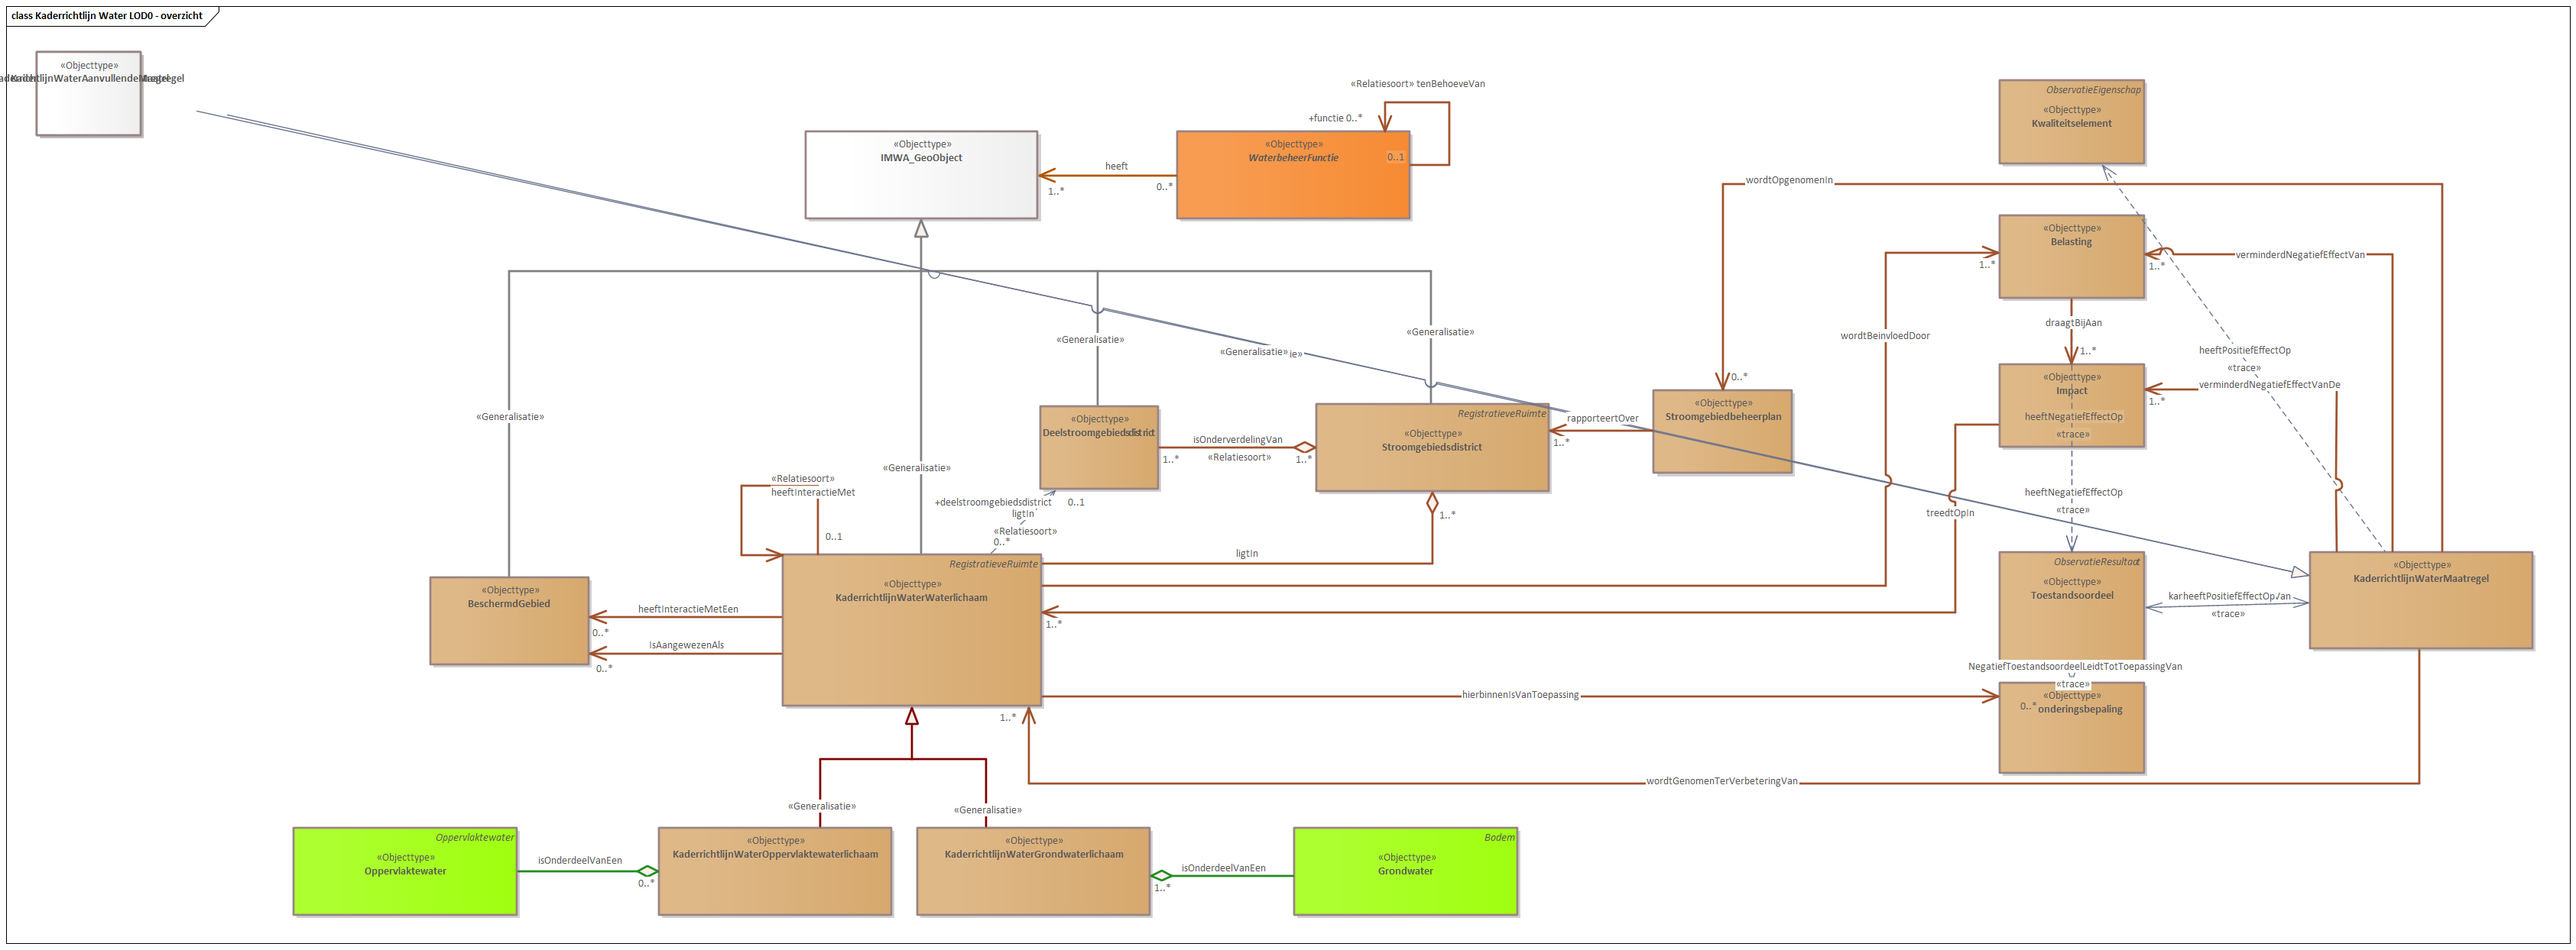
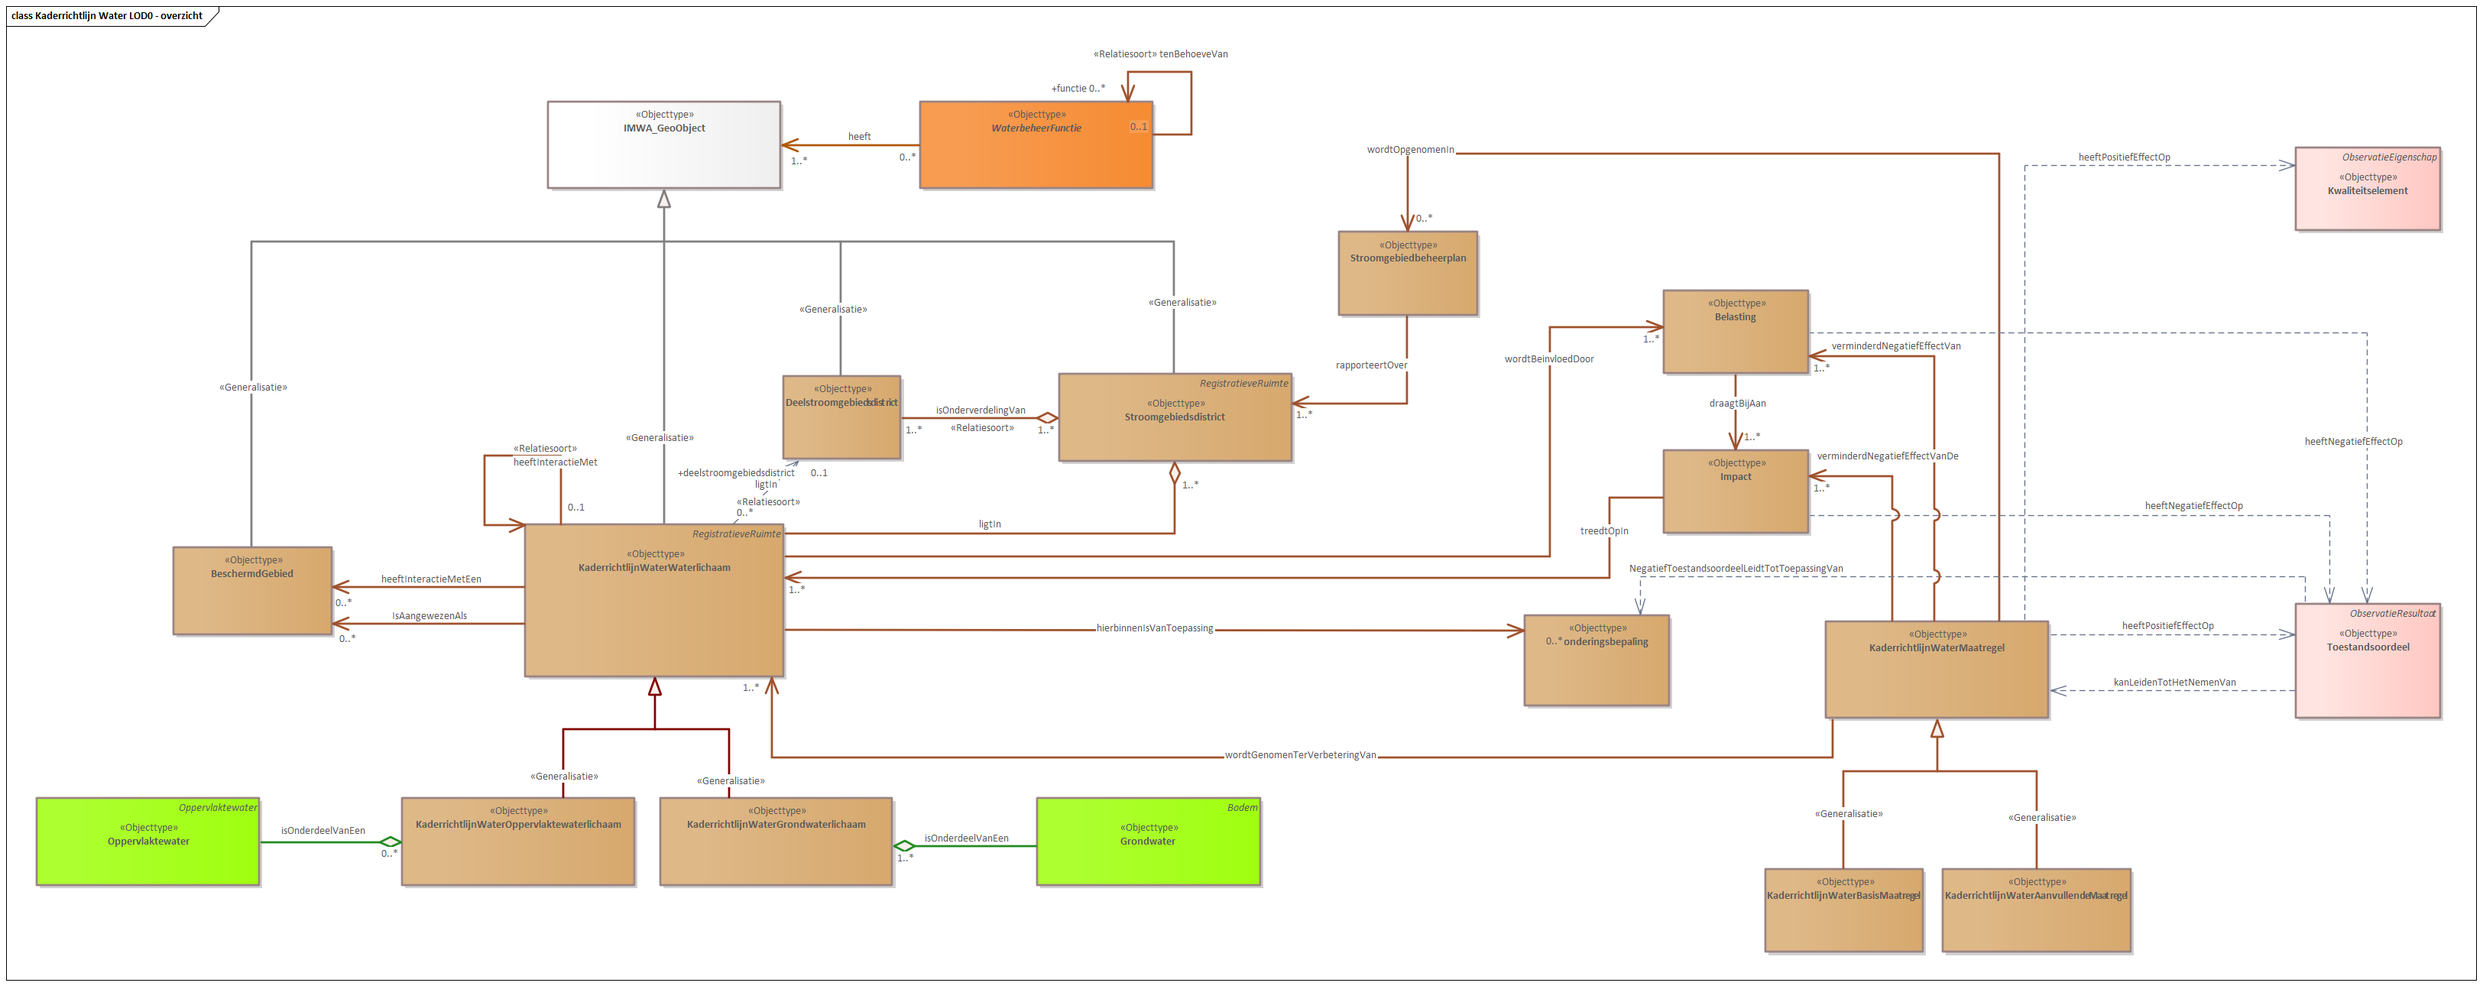
CONCEPTUAL-IMWA2024Watersysteem-22.1-1-20231026-20240826-112741

diff --git a/data/IMWA-WS-cat.respec.full.html b/data/IMWA-WS-cat.respec.full.html
@@ -32,13 +32,13 @@
       </section>
       <section id="sotd">
          <p>
-            Deze documentatie van het conceptueel model is laatst bijgewerkt op August 26, 2024 at 11:13:38.
+            Deze documentatie van het conceptueel model is laatst bijgewerkt op August 26, 2024 at 11:28:20.
             </p>
       </section>
       <section id="cat" class="normative">
          <h2>Gegevensdefinitie</h2>
          <p><b>Deze tekst is normatief.</b>
-            <!--CONCEPTUAL-IMWA2024Watersysteem-22.1-1-20231026-20240826-111256 imvertor Nightly-build.18--></p>
+            <!--CONCEPTUAL-IMWA2024Watersysteem-22.1-1-20231026-20240826-112741 imvertor Nightly-build.18--></p>
          <section id="global_package_Beleid">
             <h3>Domein   Beleid</h3>
             <div class="imageinfo overview"><img src="data/Images/EAID_84E50C98_D295_4785_9714_E9D21C3E572F.png" usemap="#imagemap-EAID_84E50C98_D295_4785_9714_E9D21C3E572F" alt="Diagram: Kaderrichtlijn Water LOD1 - overzicht"><map name="imagemap-EAID_84E50C98_D295_4785_9714_E9D21C3E572F"><area shape="rect" alt="KaderrichtlijnWaterAanvullendeMaatregel" coords="3087,1417,3486,1663" href="#global_class_Beleid_KaderrichtlijnWaterAanvullendeMaatregel"><area shape="rect" alt="KaderrichtlijnWaterBasisMaatregel" coords="3579,1417,3787,1527" href="#global_class_Beleid_KaderrichtlijnWaterBasisMaatregel"><area shape="rect" alt="LiteratuurVerwijzing" coords="1923,1637,2137,1822" href="#global_class_Beleid_LiteratuurVerwijzing"><area shape="rect" alt="AfmetingOppervlaktewaterlichaam" coords="953,1648,1159,1811" href="#global_class_JuridischOmgevingswet_AfmetingOppervlaktewaterlichaam"><area shape="rect" alt="AfmetingGrondwaterlichaam" coords="1596,1633,1848,1826" href="#global_class_JuridischOmgevingswet_AfmetingGrondwaterlichaam"><area shape="rect" alt="Deelstroomgebiedsdistrict" coords="1606,530,1861,709" href="#global_class_Beleid_Deelstroomgebiedsdistrict"><area shape="rect" alt="MotiveringStatusSterkVeranderd" coords="1210,1648,1514,1811" href="#global_class_Beleid_MotiveringStatusSterkVeranderd"><area shape="rect" alt="KaderrichtlijnWaterMaatregel" coords="3309,1063,3680,1278" href="#global_class_Beleid_KaderrichtlijnWaterMaatregel"><area shape="rect" alt="Stroomgebiedbeheerplan" coords="2330,354,2690,476" href="#global_class_Beleid_Stroomgebiedbeheerplan"><area shape="rect" alt="BeschermdGebied" coords="646,914,1099,1059" href="#global_class_Beleid_BeschermdGebied"><area shape="rect" alt="Stroomgebiedsdistrict" coords="2035,523,2318,738" href="#global_class_Beleid_Stroomgebiedsdistrict"><area shape="rect" alt="KaderrichtlijnWaterOppervlaktewaterlichaam" coords="996,1334,1483,1613" href="#global_class_Beleid_KaderrichtlijnWaterOppervlaktewaterlichaam"><area shape="rect" alt="KaderrichtlijnWaterWaterlichaam" coords="1271,883,1767,1174" href="#global_class_Beleid_KaderrichtlijnWaterWaterlichaam"><area shape="rect" alt="KaderrichtlijnWaterGrondwaterlichaam" coords="1524,1338,1881,1607" href="#global_class_Beleid_KaderrichtlijnWaterGrondwaterlichaam"><area shape="rect" alt="Grondwater" coords="2184,1415,2476,1529" href="#global_class_Geografie_Grondwater"><area shape="rect" alt="Oppervlaktewater" coords="410,1368,702,1553" href="#global_class_Geografie_Oppervlaktewater"><area shape="rect" alt="Belasting" coords="2921,418,3266,588" href="#global_class_Beleid_Belasting"><area shape="rect" alt="Impact" coords="2921,733,3276,901" href="#global_class_Beleid_Impact"><area shape="rect" alt="Uitzonderingsbepaling" coords="2476,1051,2822,1220" href="#global_class_Beleid_Uitzonderingsbepaling"></map><p><b>Kaderrichtlijn Water LOD1 - overzicht</b>
@@ -46,7 +46,7 @@
                   <p></p>
                   </p>
             </div>
-            <div class="imageinfo overview"><img src="data/Images/EAID_70E98216_D908_4772_A9F3_7805C6D2A34F.png" usemap="#imagemap-EAID_70E98216_D908_4772_A9F3_7805C6D2A34F" alt="Diagram: Kaderrichtlijn Water LOD0 - overzicht"><map name="imagemap-EAID_70E98216_D908_4772_A9F3_7805C6D2A34F"><area shape="rect" alt="Deelstroomgebiedsdistrict" coords="1361,532,1516,641" href="#global_class_Beleid_Deelstroomgebiedsdistrict"><area shape="rect" alt="KaderrichtlijnWaterMaatregel" coords="3022,723,3314,850" href="#global_class_Beleid_KaderrichtlijnWaterMaatregel"><area shape="rect" alt="Stroomgebiedbeheerplan" coords="2163,511,2345,620" href="#global_class_Beleid_Stroomgebiedbeheerplan"><area shape="rect" alt="BeschermdGebied" coords="563,756,771,871" href="#global_class_Beleid_BeschermdGebied"><area shape="rect" alt="Stroomgebiedsdistrict" coords="1722,529,2027,644" href="#global_class_Beleid_Stroomgebiedsdistrict"><area shape="rect" alt="KaderrichtlijnWaterOppervlaktewaterlichaam" coords="862,1084,1167,1199" href="#global_class_Beleid_KaderrichtlijnWaterOppervlaktewaterlichaam"><area shape="rect" alt="KaderrichtlijnWaterWaterlichaam" coords="1024,726,1363,925" href="#global_class_Beleid_KaderrichtlijnWaterWaterlichaam"><area shape="rect" alt="KaderrichtlijnWaterGrondwaterlichaam" coords="1200,1084,1505,1199" href="#global_class_Beleid_KaderrichtlijnWaterGrondwaterlichaam"><area shape="rect" alt="Grondwater" coords="1693,1084,1986,1199" href="#global_class_Geografie_Grondwater"><area shape="rect" alt="Oppervlaktewater" coords="384,1084,677,1199" href="#global_class_Geografie_Oppervlaktewater"><area shape="rect" alt="Belasting" coords="2616,282,2806,391" href="#global_class_Beleid_Belasting"><area shape="rect" alt="Impact" coords="2616,477,2806,586" href="#global_class_Beleid_Impact"><area shape="rect" alt="Uitzonderingsbepaling" coords="2616,894,2806,1013" href="#global_class_Beleid_Uitzonderingsbepaling"><area shape="rect" alt="KaderrichtlijnWaterAanvullendeMaatregel" coords="48,68,295,178" href="#global_class_Beleid_KaderrichtlijnWaterAanvullendeMaatregel"><area shape="rect" alt="KaderrichtlijnWaterBasisMaatregel" coords="48,68,256,178" href="#global_class_Beleid_KaderrichtlijnWaterBasisMaatregel"></map><p><b>Kaderrichtlijn Water LOD0 - overzicht</b>
+            <div class="imageinfo overview"><img src="data/Images/EAID_70E98216_D908_4772_A9F3_7805C6D2A34F.png" usemap="#imagemap-EAID_70E98216_D908_4772_A9F3_7805C6D2A34F" alt="Diagram: Kaderrichtlijn Water LOD0 - overzicht"><map name="imagemap-EAID_70E98216_D908_4772_A9F3_7805C6D2A34F"><area shape="rect" alt="Deelstroomgebiedsdistrict" coords="1025,492,1179,601" href="#global_class_Beleid_Deelstroomgebiedsdistrict"><area shape="rect" alt="KaderrichtlijnWaterMaatregel" coords="2389,813,2681,940" href="#global_class_Beleid_KaderrichtlijnWaterMaatregel"><area shape="rect" alt="Stroomgebiedbeheerplan" coords="1752,303,1934,413" href="#global_class_Beleid_Stroomgebiedbeheerplan"><area shape="rect" alt="BeschermdGebied" coords="227,716,435,831" href="#global_class_Beleid_BeschermdGebied"><area shape="rect" alt="Stroomgebiedsdistrict" coords="1386,489,1691,604" href="#global_class_Beleid_Stroomgebiedsdistrict"><area shape="rect" alt="KaderrichtlijnWaterOppervlaktewaterlichaam" coords="526,1044,831,1159" href="#global_class_Beleid_KaderrichtlijnWaterOppervlaktewaterlichaam"><area shape="rect" alt="KaderrichtlijnWaterWaterlichaam" coords="687,686,1026,886" href="#global_class_Beleid_KaderrichtlijnWaterWaterlichaam"><area shape="rect" alt="KaderrichtlijnWaterGrondwaterlichaam" coords="864,1044,1168,1159" href="#global_class_Beleid_KaderrichtlijnWaterGrondwaterlichaam"><area shape="rect" alt="Grondwater" coords="1357,1044,1650,1159" href="#global_class_Geografie_Grondwater"><area shape="rect" alt="Oppervlaktewater" coords="48,1044,340,1159" href="#global_class_Geografie_Oppervlaktewater"><area shape="rect" alt="Belasting" coords="2177,380,2367,489" href="#global_class_Beleid_Belasting"><area shape="rect" alt="Impact" coords="2177,589,2367,698" href="#global_class_Beleid_Impact"><area shape="rect" alt="Uitzonderingsbepaling" coords="1995,805,2185,924" href="#global_class_Beleid_Uitzonderingsbepaling"><area shape="rect" alt="KaderrichtlijnWaterAanvullendeMaatregel" coords="2542,1137,2789,1246" href="#global_class_Beleid_KaderrichtlijnWaterAanvullendeMaatregel"><area shape="rect" alt="KaderrichtlijnWaterBasisMaatregel" coords="2310,1137,2517,1246" href="#global_class_Beleid_KaderrichtlijnWaterBasisMaatregel"></map><p><b>Kaderrichtlijn Water LOD0 - overzicht</b>
                   
                   <p></p>
                   </p>

diff --git a/data/IMWA-WS-cat.respec.html b/data/IMWA-WS-cat.respec.html
@@ -32,13 +32,13 @@
       </section>
       <section id="sotd">
          <p>
-            Deze documentatie van het conceptueel model is laatst bijgewerkt op August 26, 2024 at 11:13:38.
+            Deze documentatie van het conceptueel model is laatst bijgewerkt op August 26, 2024 at 11:28:21.
             </p>
       </section>
       <section id="cat" class="normative">
          <h2>Gegevensdefinitie</h2>
          <p><b>Deze tekst is normatief.</b>
-            <!--CONCEPTUAL-IMWA2024Watersysteem-22.1-1-20231026-20240826-111256 imvertor Nightly-build.18--></p>
+            <!--CONCEPTUAL-IMWA2024Watersysteem-22.1-1-20231026-20240826-112741 imvertor Nightly-build.18--></p>
          <section id="global_package_Beleid">
             <h3>Domein   Beleid</h3>
             <div class="imageinfo overview"><img src="data/Images/EAID_84E50C98_D295_4785_9714_E9D21C3E572F.png" usemap="#imagemap-EAID_84E50C98_D295_4785_9714_E9D21C3E572F" alt="Diagram: Kaderrichtlijn Water LOD1 - overzicht"><map name="imagemap-EAID_84E50C98_D295_4785_9714_E9D21C3E572F"><area shape="rect" alt="KaderrichtlijnWaterAanvullendeMaatregel" coords="3087,1417,3486,1663" href="#global_class_Beleid_KaderrichtlijnWaterAanvullendeMaatregel"><area shape="rect" alt="KaderrichtlijnWaterBasisMaatregel" coords="3579,1417,3787,1527" href="#global_class_Beleid_KaderrichtlijnWaterBasisMaatregel"><area shape="rect" alt="LiteratuurVerwijzing" coords="1923,1637,2137,1822" href="#global_class_Beleid_LiteratuurVerwijzing"><area shape="rect" alt="AfmetingOppervlaktewaterlichaam" coords="953,1648,1159,1811" href="#global_class_JuridischOmgevingswet_AfmetingOppervlaktewaterlichaam"><area shape="rect" alt="AfmetingGrondwaterlichaam" coords="1596,1633,1848,1826" href="#global_class_JuridischOmgevingswet_AfmetingGrondwaterlichaam"><area shape="rect" alt="Deelstroomgebiedsdistrict" coords="1606,530,1861,709" href="#global_class_Beleid_Deelstroomgebiedsdistrict"><area shape="rect" alt="MotiveringStatusSterkVeranderd" coords="1210,1648,1514,1811" href="#global_class_Beleid_MotiveringStatusSterkVeranderd"><area shape="rect" alt="KaderrichtlijnWaterMaatregel" coords="3309,1063,3680,1278" href="#global_class_Beleid_KaderrichtlijnWaterMaatregel"><area shape="rect" alt="Stroomgebiedbeheerplan" coords="2330,354,2690,476" href="#global_class_Beleid_Stroomgebiedbeheerplan"><area shape="rect" alt="BeschermdGebied" coords="646,914,1099,1059" href="#global_class_Beleid_BeschermdGebied"><area shape="rect" alt="Stroomgebiedsdistrict" coords="2035,523,2318,738" href="#global_class_Beleid_Stroomgebiedsdistrict"><area shape="rect" alt="KaderrichtlijnWaterOppervlaktewaterlichaam" coords="996,1334,1483,1613" href="#global_class_Beleid_KaderrichtlijnWaterOppervlaktewaterlichaam"><area shape="rect" alt="KaderrichtlijnWaterWaterlichaam" coords="1271,883,1767,1174" href="#global_class_Beleid_KaderrichtlijnWaterWaterlichaam"><area shape="rect" alt="KaderrichtlijnWaterGrondwaterlichaam" coords="1524,1338,1881,1607" href="#global_class_Beleid_KaderrichtlijnWaterGrondwaterlichaam"><area shape="rect" alt="Grondwater" coords="2184,1415,2476,1529" href="#global_class_Geografie_Grondwater"><area shape="rect" alt="Oppervlaktewater" coords="410,1368,702,1553" href="#global_class_Geografie_Oppervlaktewater"><area shape="rect" alt="Belasting" coords="2921,418,3266,588" href="#global_class_Beleid_Belasting"><area shape="rect" alt="Impact" coords="2921,733,3276,901" href="#global_class_Beleid_Impact"><area shape="rect" alt="Uitzonderingsbepaling" coords="2476,1051,2822,1220" href="#global_class_Beleid_Uitzonderingsbepaling"></map><p><b>Kaderrichtlijn Water LOD1 - overzicht</b>
@@ -46,7 +46,7 @@
                   <p></p>
                   </p>
             </div>
-            <div class="imageinfo overview"><img src="data/Images/EAID_70E98216_D908_4772_A9F3_7805C6D2A34F.png" usemap="#imagemap-EAID_70E98216_D908_4772_A9F3_7805C6D2A34F" alt="Diagram: Kaderrichtlijn Water LOD0 - overzicht"><map name="imagemap-EAID_70E98216_D908_4772_A9F3_7805C6D2A34F"><area shape="rect" alt="Deelstroomgebiedsdistrict" coords="1361,532,1516,641" href="#global_class_Beleid_Deelstroomgebiedsdistrict"><area shape="rect" alt="KaderrichtlijnWaterMaatregel" coords="3022,723,3314,850" href="#global_class_Beleid_KaderrichtlijnWaterMaatregel"><area shape="rect" alt="Stroomgebiedbeheerplan" coords="2163,511,2345,620" href="#global_class_Beleid_Stroomgebiedbeheerplan"><area shape="rect" alt="BeschermdGebied" coords="563,756,771,871" href="#global_class_Beleid_BeschermdGebied"><area shape="rect" alt="Stroomgebiedsdistrict" coords="1722,529,2027,644" href="#global_class_Beleid_Stroomgebiedsdistrict"><area shape="rect" alt="KaderrichtlijnWaterOppervlaktewaterlichaam" coords="862,1084,1167,1199" href="#global_class_Beleid_KaderrichtlijnWaterOppervlaktewaterlichaam"><area shape="rect" alt="KaderrichtlijnWaterWaterlichaam" coords="1024,726,1363,925" href="#global_class_Beleid_KaderrichtlijnWaterWaterlichaam"><area shape="rect" alt="KaderrichtlijnWaterGrondwaterlichaam" coords="1200,1084,1505,1199" href="#global_class_Beleid_KaderrichtlijnWaterGrondwaterlichaam"><area shape="rect" alt="Grondwater" coords="1693,1084,1986,1199" href="#global_class_Geografie_Grondwater"><area shape="rect" alt="Oppervlaktewater" coords="384,1084,677,1199" href="#global_class_Geografie_Oppervlaktewater"><area shape="rect" alt="Belasting" coords="2616,282,2806,391" href="#global_class_Beleid_Belasting"><area shape="rect" alt="Impact" coords="2616,477,2806,586" href="#global_class_Beleid_Impact"><area shape="rect" alt="Uitzonderingsbepaling" coords="2616,894,2806,1013" href="#global_class_Beleid_Uitzonderingsbepaling"><area shape="rect" alt="KaderrichtlijnWaterAanvullendeMaatregel" coords="48,68,295,178" href="#global_class_Beleid_KaderrichtlijnWaterAanvullendeMaatregel"><area shape="rect" alt="KaderrichtlijnWaterBasisMaatregel" coords="48,68,256,178" href="#global_class_Beleid_KaderrichtlijnWaterBasisMaatregel"></map><p><b>Kaderrichtlijn Water LOD0 - overzicht</b>
+            <div class="imageinfo overview"><img src="data/Images/EAID_70E98216_D908_4772_A9F3_7805C6D2A34F.png" usemap="#imagemap-EAID_70E98216_D908_4772_A9F3_7805C6D2A34F" alt="Diagram: Kaderrichtlijn Water LOD0 - overzicht"><map name="imagemap-EAID_70E98216_D908_4772_A9F3_7805C6D2A34F"><area shape="rect" alt="Deelstroomgebiedsdistrict" coords="1025,492,1179,601" href="#global_class_Beleid_Deelstroomgebiedsdistrict"><area shape="rect" alt="KaderrichtlijnWaterMaatregel" coords="2389,813,2681,940" href="#global_class_Beleid_KaderrichtlijnWaterMaatregel"><area shape="rect" alt="Stroomgebiedbeheerplan" coords="1752,303,1934,413" href="#global_class_Beleid_Stroomgebiedbeheerplan"><area shape="rect" alt="BeschermdGebied" coords="227,716,435,831" href="#global_class_Beleid_BeschermdGebied"><area shape="rect" alt="Stroomgebiedsdistrict" coords="1386,489,1691,604" href="#global_class_Beleid_Stroomgebiedsdistrict"><area shape="rect" alt="KaderrichtlijnWaterOppervlaktewaterlichaam" coords="526,1044,831,1159" href="#global_class_Beleid_KaderrichtlijnWaterOppervlaktewaterlichaam"><area shape="rect" alt="KaderrichtlijnWaterWaterlichaam" coords="687,686,1026,886" href="#global_class_Beleid_KaderrichtlijnWaterWaterlichaam"><area shape="rect" alt="KaderrichtlijnWaterGrondwaterlichaam" coords="864,1044,1168,1159" href="#global_class_Beleid_KaderrichtlijnWaterGrondwaterlichaam"><area shape="rect" alt="Grondwater" coords="1357,1044,1650,1159" href="#global_class_Geografie_Grondwater"><area shape="rect" alt="Oppervlaktewater" coords="48,1044,340,1159" href="#global_class_Geografie_Oppervlaktewater"><area shape="rect" alt="Belasting" coords="2177,380,2367,489" href="#global_class_Beleid_Belasting"><area shape="rect" alt="Impact" coords="2177,589,2367,698" href="#global_class_Beleid_Impact"><area shape="rect" alt="Uitzonderingsbepaling" coords="1995,805,2185,924" href="#global_class_Beleid_Uitzonderingsbepaling"><area shape="rect" alt="KaderrichtlijnWaterAanvullendeMaatregel" coords="2542,1137,2789,1246" href="#global_class_Beleid_KaderrichtlijnWaterAanvullendeMaatregel"><area shape="rect" alt="KaderrichtlijnWaterBasisMaatregel" coords="2310,1137,2517,1246" href="#global_class_Beleid_KaderrichtlijnWaterBasisMaatregel"></map><p><b>Kaderrichtlijn Water LOD0 - overzicht</b>
                   
                   <p></p>
                   </p>
